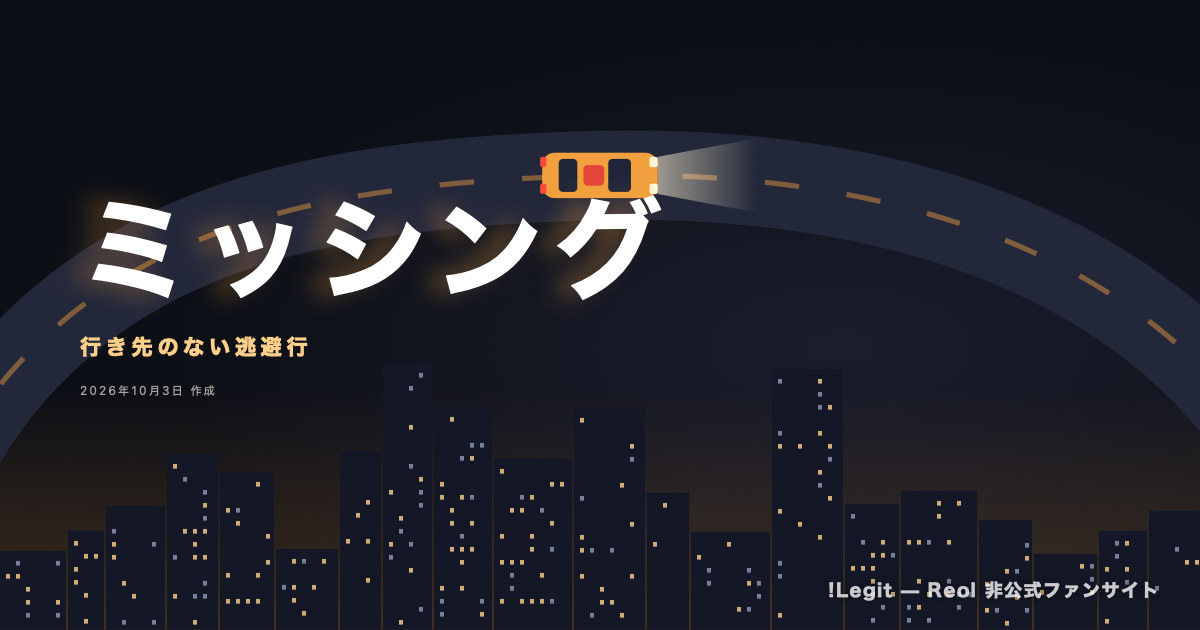
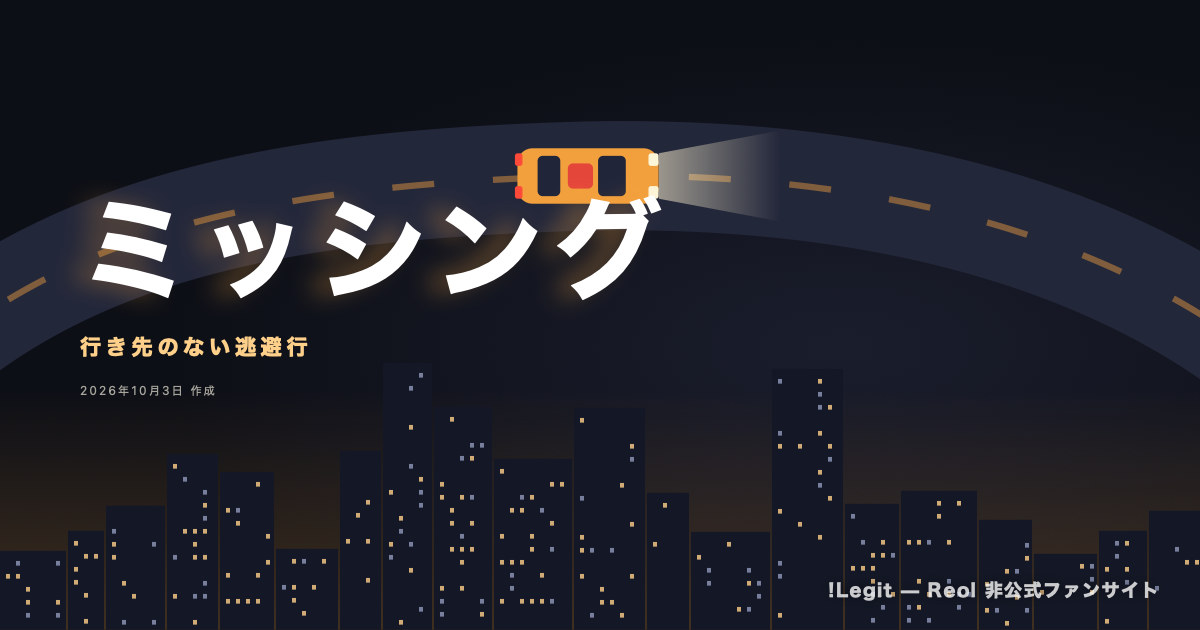
fix: ミッシングの表紙の環状線をもう少し大きく

diff --git a/src/components/songArticles/designs/reol-song-047/missing.css b/src/components/songArticles/designs/reol-song-047/missing.css
@@ -38,9 +38,9 @@
 .a047-cover__art {
   position: absolute;
   z-index: -1;
-  left: -36%;
-  top: -5%;
-  width: 172%;
+  left: -56%;
+  top: -12%;
+  width: 210%;
 }
 .a047-ring {
   display: block;
@@ -579,9 +579,9 @@
   }
   /* スマートフォン: 輪は題名の後ろに薄く */
   .a047-cover__art {
-    left: -44%;
-    top: 22%;
-    width: 186%;
+    left: -63%;
+    top: 14%;
+    width: 225%;
     opacity: 0.7;
   }
 }

diff --git a/plan/42-missing-article-design.md b/plan/42-missing-article-design.md
@@ -90,3 +90,4 @@
 - ユーザー「表紙の環状道路を画面からはみ出るくらいに表示してタクシーを行ったり来たりするような表現にしたい」。輪を表紙の約1.5倍(スマートフォンは約2.6倍)の大きさで置き、右と下を画面の外に出した。タクシー(少し小さく、一周12秒)は上を横切って右へ消え、しばらくして左下から戻ってくる。止まっている時は輪の上に置く。OGP 撮り直し。
 - 確認: WebKit・Chromium のスマートフォン幅・PC 幅で、0・3・6・9秒の時点を撮影(WebKit)。横はみ出しなし。
 - 続けてユーザー「左右両方画面からはみ出すイメージ」。輪を表紙の約1.7倍(スマートフォンは約1.9倍)にして左右とも画面の外へ。PC は上の弧が画面を横切り、タクシーは右へ消えて左から戻る。スマートフォンは輪の上下が見え、左右が切れる。WebKit・Chromium で撮影、OGP 撮り直し。
+- さらにユーザー「もう少し大きい輪にして」。表紙の約2.1倍(スマートフォンは約2.25倍)に。
